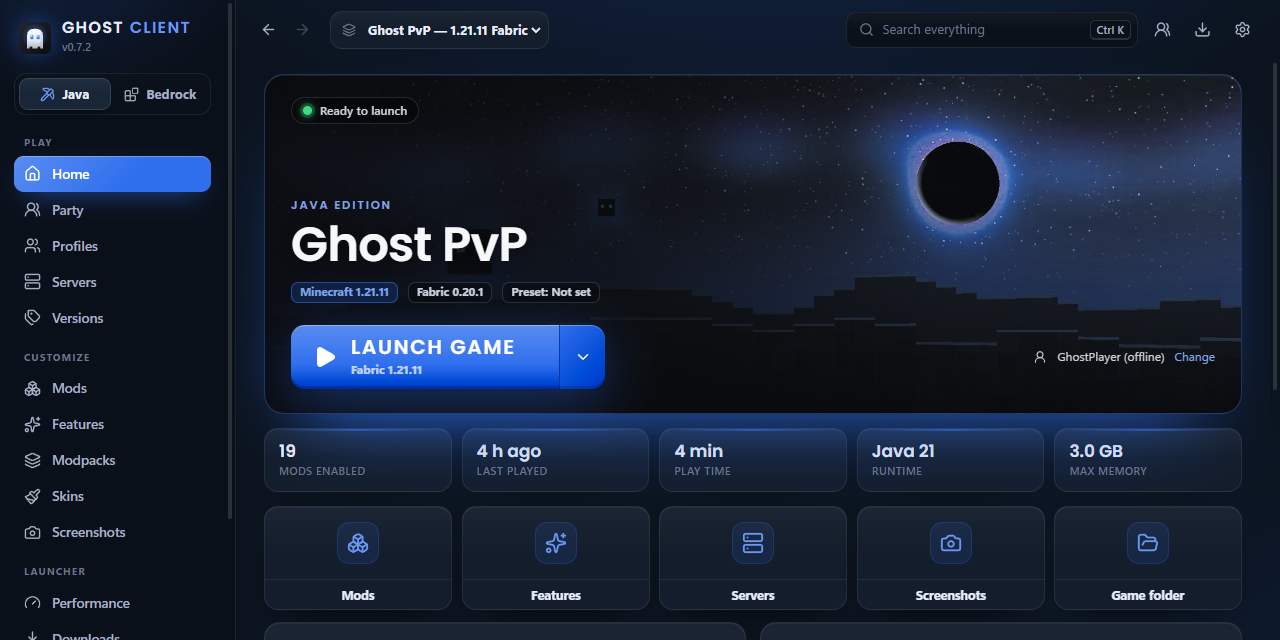
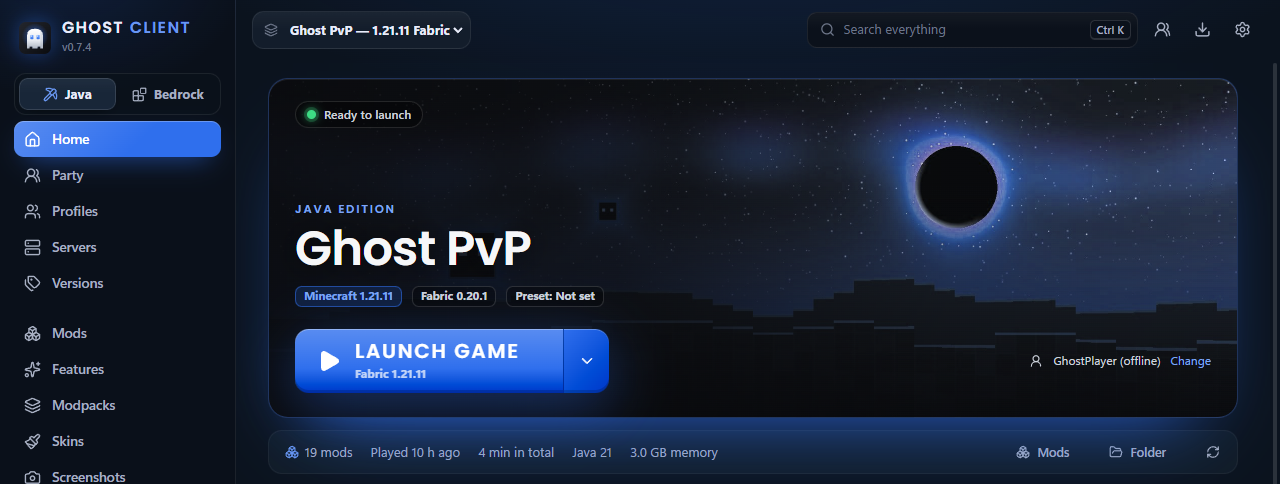
Ghost Client 0.7.5 on the website

diff --git a/index.html b/index.html
@@ -94,7 +94,7 @@
       </div>
       <p class="meta">Windows 10 &amp; 11, 64-bit · Using the official launcher? Get Ghost Menu for <a href="https://github.com/Jaylenninja14/shadow-client/releases/latest/download/Ghost-Menu-1.21.11.jar">1.21.11</a> or <a href="https://github.com/Jaylenninja14/shadow-client/releases/latest/download/Ghost-Menu-1.21.1.jar">1.21.1</a></p>
       <div class="hero-stage">
-        <div class="hero-window"><img src="images/launcher-home.png" alt="Ghost Client's home screen" width="1280" height="640" fetchpriority="high"></div>
+        <div class="hero-window"><img src="images/launcher-home.png" alt="Ghost Client's home screen" width="1280" height="484" fetchpriority="high"></div>
       </div>
       <div class="strip">
         <div class="reveal"><strong>280+</strong><span>in-game modules, all our own</span></div>
@@ -301,6 +301,15 @@
       <span class="kicker">Changelog</span>
       <h2>What's <b>new</b></h2>
       <div class="changelog">
+        <article>
+          <h3>Ghost Client 0.7.5 <span>November 22, 2026</span></h3>
+          <ul>
+            <li><strong>A cleaner launcher:</strong> a quieter sidebar (no headings; Downloads and Settings live in the top bar), no back/forward arrows (Alt+Left/Right and your mouse's side buttons still work), lighter borders and more room everywhere.</li>
+            <li><strong>A simpler Home:</strong> your profile's banner and Launch button, one line with its mods, play time, Java and memory, and your profiles as cards with art underneath. Problems to fix, downloads and a crashed last session only show up when there's something to show.</li>
+            <li><strong>The Mods page's tabs fit on one line.</strong></li>
+          </ul>
+        </article>
+
         <article>
           <h3>Ghost Client 0.7.4 <span>November 21, 2026</span></h3>
           <ul>
